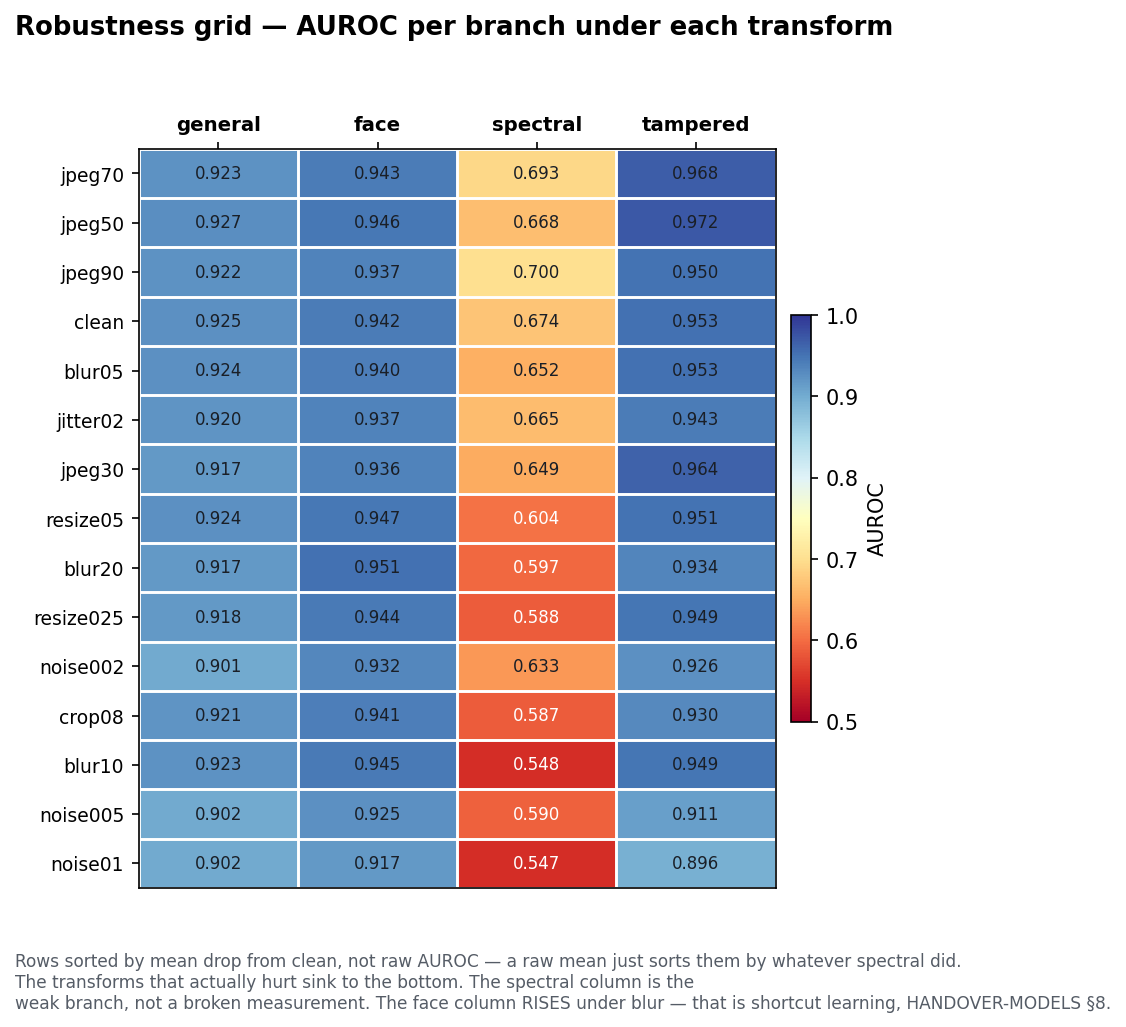
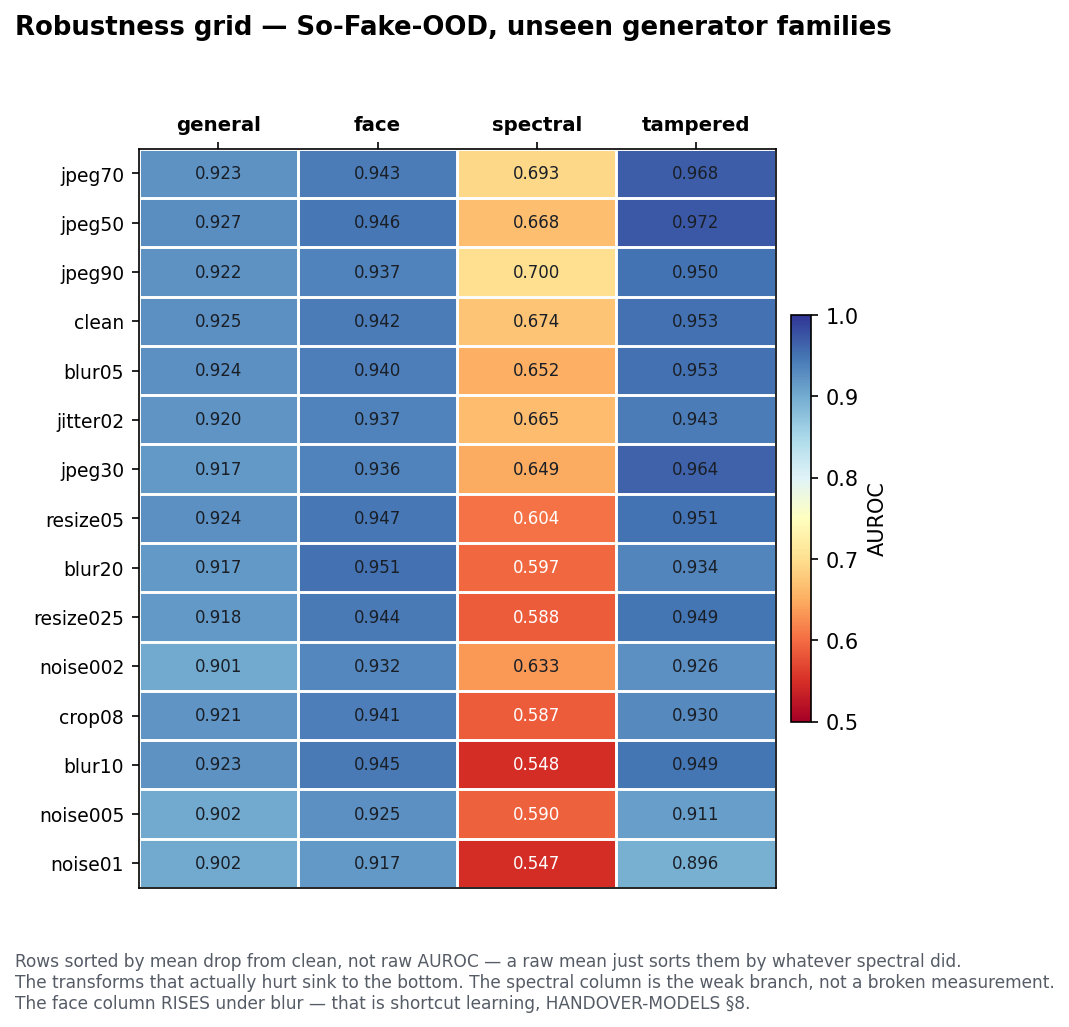
feat: generate new figures + add walle deepfake to figures, add docs

diff --git a/scripts/make_figures.py b/scripts/make_figures.py
@@ -1,16 +1,23 @@
 """Regenerate docs/figures from cache. Everything here is computed, never drawn
 from a pasted number, so a figure cannot outlive the result it illustrates.
 
-    python scripts/make_figures.py            # all five
+    python scripts/make_figures.py            # all six
     python scripts/make_figures.py threshold  # just one
 
-Five figures, one argument each:
+Six figures, one argument each:
 
   threshold.png     0.5 was never chosen, and it is the wrong place to cut
   separation.png    why -- the real-image score mass sits on top of the old cut
   robustness.png    the 15-variant grid as a picture instead of a table
+  robustness-organizer_val.png  the same grid on the organizer set
   generalisation.png  the tampered branch cannot recognise unfamiliar REAL photos
   benchmarks.png    organizer set vs the headline, and what max() costs on it
+
+The organizer set is WildFake DALL-E 3 Advanced (3,719 images) against COCO
+val2017 (5,000). It now appears in four of the six: its own grid, both halves of
+separation.png's lower panel, the dotted recall curve on threshold.png, and
+benchmarks.png. generalisation.png is about REAL photographs only, so it keeps
+using the COCO half alone.
 
 reliability.png is not built here -- it belongs to quorum/fusion.py, which owns
 calibration. Run `python -m quorum.fusion` for that one.
@@ -41,6 +48,9 @@ OLD_THR, NEW_THR = 0.5, 0.766
 REAL_SETS = {"sid": "SID_Set\nin-distribution",
              "ood": "So-Fake-OOD\nunseen generators",
              "coco": "COCO val2017\nunseen photography"}
+
+SOURCE_LABEL = {"so_fake_ood": "So-Fake-OOD, unseen generator families",
+                "organizer_val": "organizer set, WildFake DALL·E 3 vs COCO val2017"}
 
 
 def style(ax, title=None):
@@ -84,6 +94,11 @@ def populations():
         m = ((R.label.values == 0) & (R.variant == "clean").values
              if "variant" in R else R.label.values == 0)
         out["reals"][key] = {n: probe(n, X[m]) for n in ("general", "tampered")}
+    # The DALL-E 3 half of the organizer set. Already loaded and previously
+    # thrown away -- "coco" above keeps only organizer_val's label==0 rows, so
+    # every figure showed the benchmark's real side and none of its fake side.
+    ai = (Rc.label.values == 1) & (Rc.variant == "clean").values
+    out["organizer"] = {n: probe(n, Xc[ai]) for n in ("general", "tampered")}
     return out
 
 
@@ -97,9 +112,10 @@ def fig_threshold(D):
     y = D["y"]
     p = shipped(D["eval"])
     pc = shipped(D["reals"]["coco"])
+    po = shipped(D["organizer"])
     t = np.linspace(0.02, 0.98, 481)
 
-    acc, prec, rec, fpr, coco = [], [], [], [], []
+    acc, prec, rec, fpr, coco, dalle = [], [], [], [], [], []
     for c in t:
         hat = p >= c
         tp = (hat & (y == 1)).sum(); fp = (hat & (y == 0)).sum()
@@ -109,10 +125,12 @@ def fig_threshold(D):
         rec.append(tp / (tp + fn))
         fpr.append(fp / (fp + tn))
         coco.append((pc >= c).mean())
+        dalle.append((po >= c).mean())
 
     fig, ax = plt.subplots(figsize=(9.2, 5.0))
     for v, lab, c, ls in ((prec, "precision", BLUE, "-"), (rec, "recall", RED, "-"),
                           (acc, "accuracy", GREEN, "-"),
+                          (dalle, "recall (DALL·E 3, organizer)", RED, ":"),
                           (fpr, "FPR (So-Fake-OOD reals)", GREY, "--"),
                           (coco, "FPR (COCO photographs)", AMBER, "--")):
         ax.plot(t, v, ls, lw=1.8, c=c, label=lab)
@@ -131,10 +149,14 @@ def fig_threshold(D):
     ax.set_ylabel("rate")
     ax.set_xlim(0, 1); ax.set_ylim(0, 1)
     ax.legend(fontsize=8.5, frameon=False, loc="center left", bbox_to_anchor=(1.01, 0.5))
-    fig.text(0.0, -0.04,
+    fig.text(0.0, -0.075,
              "AUROC is identical everywhere on this axis. Moving the cut from 0.500 to 0.766 "
              "buys precision and costs recall;\nthe amber curve is the one nobody was watching "
-             "— a quarter of ordinary photographs flagged as AI at the old default.",
+             "— a quarter of ordinary photographs flagged as AI at the old default.\n"
+             f"The dotted line is the organizer set's fake half (DALL·E 3, WildFake Advanced): "
+             f"{np.interp(NEW_THR, t, dalle):.1%} of it is still caught at 0.766, against "
+             f"{np.interp(NEW_THR, t, rec):.1%}\non So-Fake-OOD. The threshold was picked on "
+             "So-Fake-OOD and costs the organizer benchmark nothing — that set is the easier one.",
              fontsize=8.2, color="#555C66", ha="left")
     save(fig, "threshold.png")
 
@@ -144,6 +166,7 @@ def fig_separation(D):
     y = D["y"]
     p = shipped(D["eval"])
     pc = shipped(D["reals"]["coco"])
+    po = shipped(D["organizer"])
     bins = np.linspace(0, 1, 46)
 
     fig, axes = plt.subplots(2, 1, figsize=(9.2, 6.0), sharex=True,
@@ -151,8 +174,8 @@ def fig_separation(D):
     for ax, (series, title) in zip(axes, (
             ((("AI-generated", p[y == 1], RED), ("real", p[y == 0], BLUE)),
              "So-Fake-OOD, unseen generator families (n = 4,198)"),
-            ((("real photographs", pc, AMBER),),
-             "COCO val2017 — 100% real, and never trained on (n = 5,000)"))):
+            ((("DALL·E 3, AI-generated", po, RED), ("COCO val2017, real", pc, AMBER)),
+             "Organizer set — WildFake DALL·E 3 Advanced vs COCO val2017, neither trained on"))):
         for lab, v, c in series:
             ax.hist(v, bins=bins, alpha=.62, color=c, label=f"{lab}  (n = {len(v):,})",
                     edgecolor="white", linewidth=.4)
@@ -175,18 +198,21 @@ def fig_separation(D):
                     zorder=6, bbox=dict(fc="white", ec="none", alpha=.78, pad=1.4))
     fig.suptitle("Why the threshold moved", fontsize=13, fontweight="bold",
                  x=0.0, ha="left", y=1.0)
-    fig.text(0.0, -0.03,
+    fig.text(0.0, -0.055,
              "The real-image mass in both panels extends well past 0.5. Everything between the two "
              f"dashed lines was a false\naccusation at the old default — {(pc >= OLD_THR).mean():.1%} of the COCO panel, "
-             f"reduced to {(pc >= NEW_THR).mean():.1%} at {NEW_THR}.",
+             f"reduced to {(pc >= NEW_THR).mean():.1%} at {NEW_THR}.\n"
+             f"The lower panel is the organizer benchmark, both halves: DALL·E 3 piles up against 1.0 "
+             f"({(po >= NEW_THR).mean():.1%} caught at {NEW_THR})\nwhile COCO sits at the other end. That gap is "
+             "wider than the upper panel's — the organizer set is the easier of the two.",
              fontsize=8.2, color="#555C66", ha="left")
     save(fig, "separation.png")
 
 
-def fig_robustness():
+def fig_robustness(source="so_fake_ood"):
     """The 15-variant grid as a heatmap. Rows ordered by how much they hurt."""
-    from eval_grid import build
-    df = build("so_fake_ood")
+    from eval_grid import build, blur_rises
+    df = build(source)
     # Sort by mean DROP FROM CLEAN per column, not by raw mean: spectral swings
     # 0.55-0.70 while the others swing 0.88-0.97, so a raw mean just sorts the
     # rows by whatever spectral did that day.
@@ -211,15 +237,26 @@ def fig_robustness():
     ax.grid(which="major", visible=False)
     ax.tick_params(which="minor", length=0)
     fig.colorbar(im, ax=ax, shrink=.55, pad=.02, label="AUROC")
-    fig.suptitle("Robustness grid — AUROC per branch under each transform",
+    fig.suptitle(f"Robustness grid — {SOURCE_LABEL[source]}",
                  fontsize=12.5, fontweight="bold", x=0.0, ha="left", y=1.02)
+    # The blur note is true on So-Fake-OOD and FALSE here: on organizer_val the
+    # face row FALLS under blur, 0.9520 -> 0.8887. eval_grid.py gates the same
+    # caveat on the same predicate; printing it unconditionally would have the
+    # caption contradict the numbers directly above it.
     fig.text(0.0, -0.015,
              "Rows sorted by mean drop from clean, not raw AUROC — a raw mean just sorts them by "
              "whatever spectral did.\nThe transforms that actually hurt sink to the bottom. "
-             "The spectral column is the\nweak branch, not a broken measurement. The face column "
-             "RISES under blur — that is shortcut learning, HANDOVER-MODELS §8.",
+             "The spectral column is the weak branch, not a broken measurement."
+             + ("\nThe face column RISES under blur — that is shortcut learning, "
+                "HANDOVER-MODELS §8." if blur_rises(df) else
+                f"\nThe general column holds {df.loc['clean', 'general']:.4f} clean to "
+                f"{df['general'].min():.4f} at its worst — a {df.loc['clean', 'general'] - df['general'].min():.4f} "
+                f"drop across all 15 transforms. Read that\nwith the same caution as the face row: "
+                f"it also RISES on {(df['general'] > df.loc['clean', 'general']).sum()} of them, "
+                f"peaking at {df['general'].max():.4f} ({df['general'].idxmax()}). At this AUROC that is "
+                "mostly ceiling,\nbut it is the shape a shortcut makes, and this set is the easy one."),
              fontsize=8.2, color="#555C66", ha="left")
-    save(fig, "robustness.png")
+    save(fig, "robustness.png" if source == "so_fake_ood" else f"robustness-{source}.png")
 
 
 def fig_generalisation(D):
@@ -334,15 +371,16 @@ def fig_benchmarks():
 
 
 FIGS = {"threshold": fig_threshold, "separation": fig_separation,
-        "robustness": fig_robustness, "generalisation": fig_generalisation,
-        "benchmarks": fig_benchmarks}
+        "robustness": fig_robustness,
+        "robustness-organizer": lambda: fig_robustness("organizer_val"),
+        "generalisation": fig_generalisation, "benchmarks": fig_benchmarks}
 
 if __name__ == "__main__":
     want = [a for a in sys.argv[1:] if not a.startswith("-")] or list(FIGS)
     bad = [w for w in want if w not in FIGS]
     if bad:
         raise SystemExit(f"unknown figure(s) {bad}; choose from {list(FIGS)}")
-    NO_DATA = {"robustness", "benchmarks"}
+    NO_DATA = {"robustness", "robustness-organizer", "benchmarks"}
     D = populations() if any(w not in NO_DATA for w in want) else None
     for w in want:
         print(f"{w}:")

diff --git a/scripts/eval_grid.py b/scripts/eval_grid.py
@@ -184,11 +184,17 @@ def main(source, do_comb):
          "![Threshold sweep](figures/threshold.png)\n\n"
          "![Score separation](figures/separation.png)\n"
          if source == "so_fake_ood" else
-         "\n![Benchmarks](figures/benchmarks.png)\n\n_This source against the "
-         "So-Fake-OOD headline, general probe vs the shipped `max`. The other "
-         "figures in `docs/figures` are built from So-Fake-OOD and are not "
-         "shown here. Regenerate with `python scripts/make_figures.py "
-         "benchmarks`._\n"),
+         # Only link the grid image if make_figures.py actually built one for
+         # this source -- an unconditional link renders as a broken image on any
+         # source nobody has drawn, which is every source except organizer_val.
+         ((f"\n![Robustness grid](figures/robustness-{source}.png)\n\n_The table "
+           f"above as a heatmap, rows sorted by mean drop from clean. Regenerate "
+           f"with `python scripts/make_figures.py robustness-organizer`._\n"
+           if (DOCS / "figures" / f"robustness-{source}.png").exists() else "")
+          + "\n![Benchmarks](figures/benchmarks.png)\n\n_This source against the "
+          "So-Fake-OOD headline, general probe vs the shipped `max`. The "
+          "remaining figures in `docs/figures` are built from So-Fake-OOD. "
+          "Regenerate with `python scripts/make_figures.py benchmarks`._\n")),
     ]
     if comb is not None:
         parts += [

diff --git a/docs/robustness-organizer_val.md b/docs/robustness-organizer_val.md
@@ -35,9 +35,13 @@ resize025   0.9890 0.9109    0.5199    0.9002
 resize05    0.9876 0.9372    0.6170    0.8740
 ```
 
+![Robustness grid](figures/robustness-organizer_val.png)
+
+_The table above as a heatmap, rows sorted by mean drop from clean. Regenerate with `python scripts/make_figures.py robustness-organizer`._
+
 ![Benchmarks](figures/benchmarks.png)
 
-_This source against the So-Fake-OOD headline, general probe vs the shipped `max`. The other figures in `docs/figures` are built from So-Fake-OOD and are not shown here. Regenerate with `python scripts/make_figures.py benchmarks`._
+_This source against the So-Fake-OOD headline, general probe vs the shipped `max`. The remaining figures in `docs/figures` are built from So-Fake-OOD. Regenerate with `python scripts/make_figures.py benchmarks`._
 
 ## Combiners, on the full task
 
